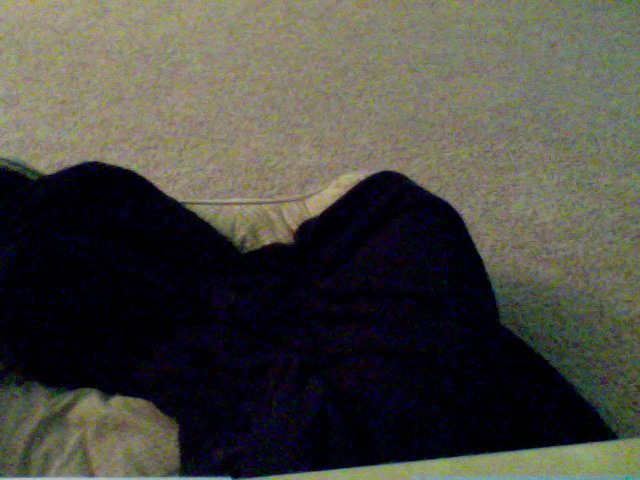
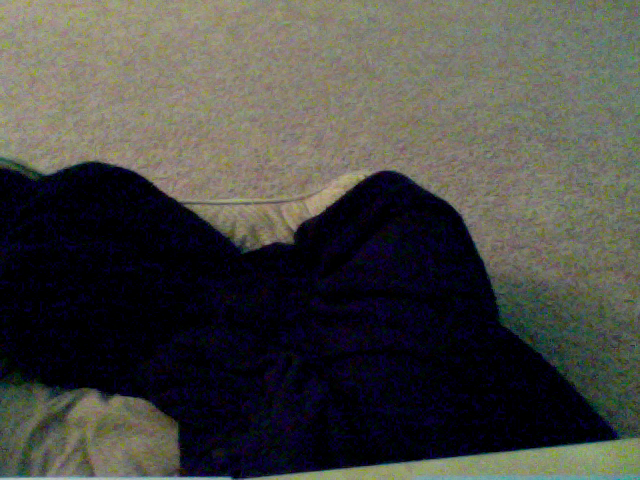
update at Month05Day07Time18:58

Changed region(s): [[0.0, 0.0, 1.0, 1.0], [0.1875, 0.4375, 0.2188, 0.4688], [0.125, 0.4375, 0.1562, 0.4688]]

diff --git a/index.html b/index.html
@@ -39,8 +39,8 @@
       <!-- Example row of columns -->
       <div class="row">
         <div class="col-md-4">
-	<p>This picture was updated at Month05Day07Time18:57</p>
-		<img src="8_pic.png" />
+	<p>This picture was updated at Month05Day07Time18:58</p>
+		<img src="7_pic.png" />
         </div>
       </div>
 
